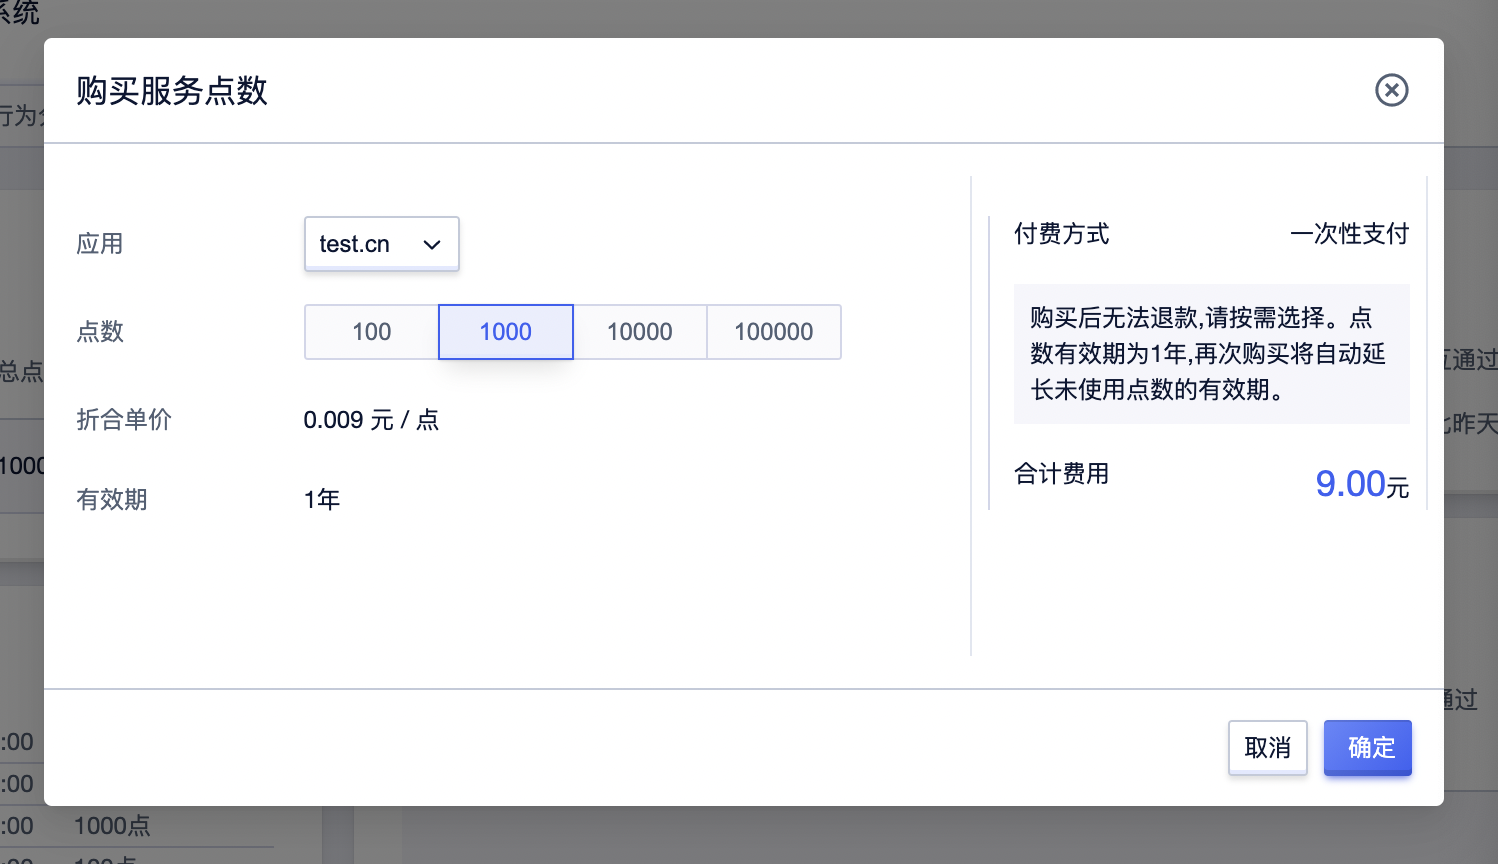
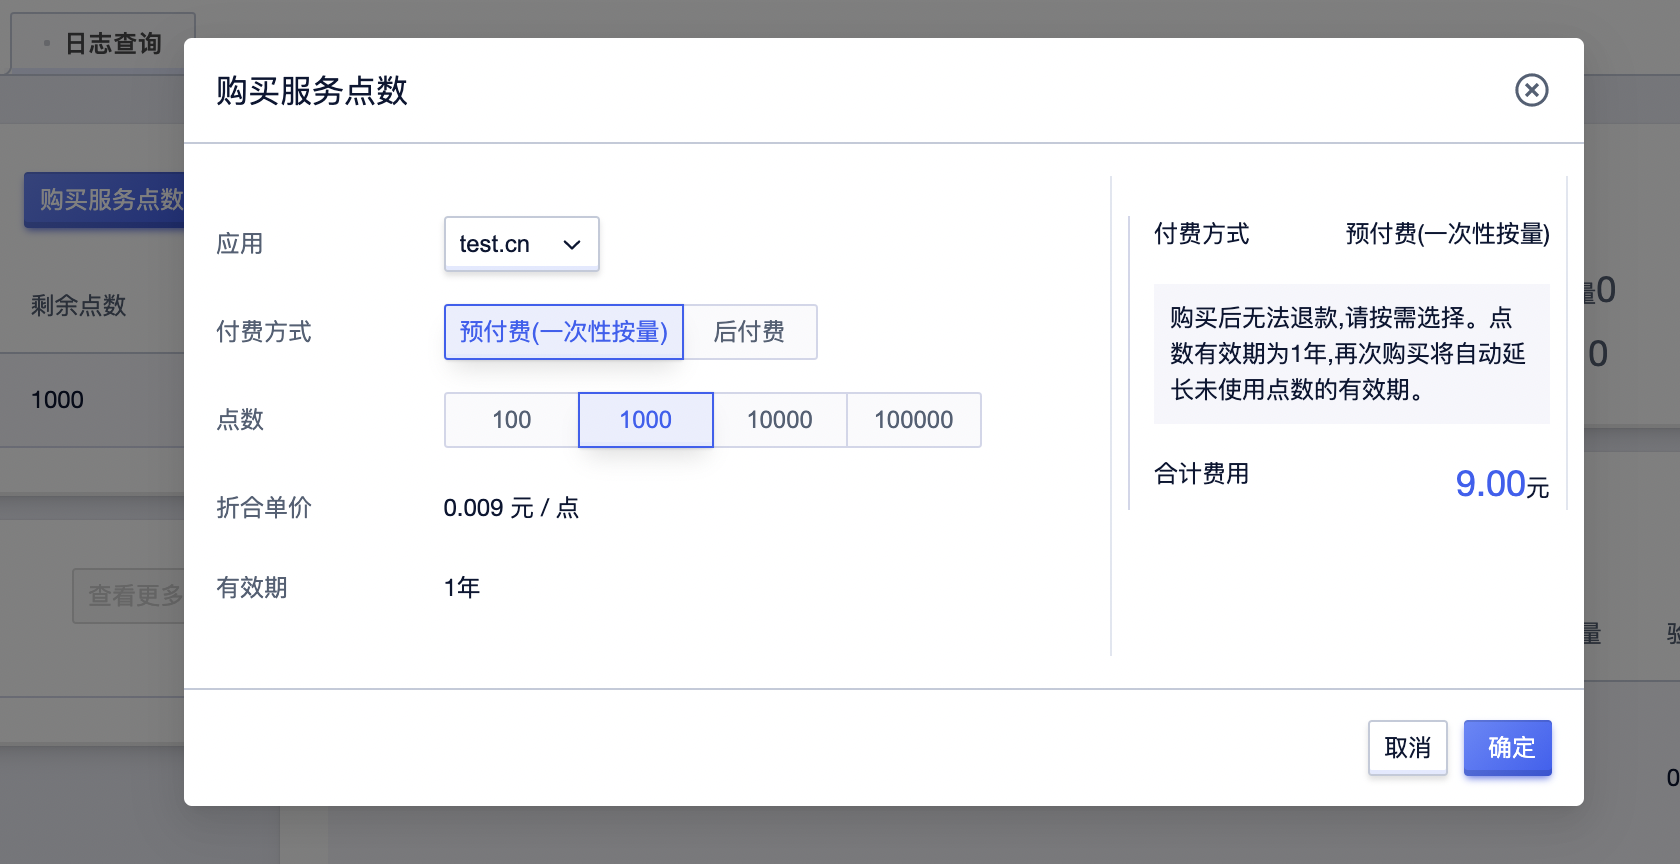
update uiw-更新无间盾计费方式

diff --git a/quick.md b/quick.md
@@ -15,7 +15,7 @@
 
 
 ### 2.购买服务点数
-添加应用场景开通服务之后，进入“安全概览”页签，在对应的应用列表下，点击购买服务点数，购买相应的验证服务点数。
+添加应用场景开通服务之后，进入“安全概览”页签，在对应的应用列表下，点击购买服务点数，选择计费方式，购买服务点数或者设置后付费限额。
 
 ![](/images/buy.png)
 

diff --git a/price.md b/price.md
@@ -23,5 +23,11 @@
 | 10000 | 0.008 | 80 |
 | 100000 | 0.007 | 700 |
 
+**付费方式：** 后付费
+
+**计费标准：** 后付费计费方式，先使用后付费，每天定时结算前一天的使用点数，0.01元/验证次数，使用多少，扣费多少，生成后付费订单。
+
+**计费周期：** 每日定时计费一次，生成后付费订单结算前一日的费用。
+
 
 
